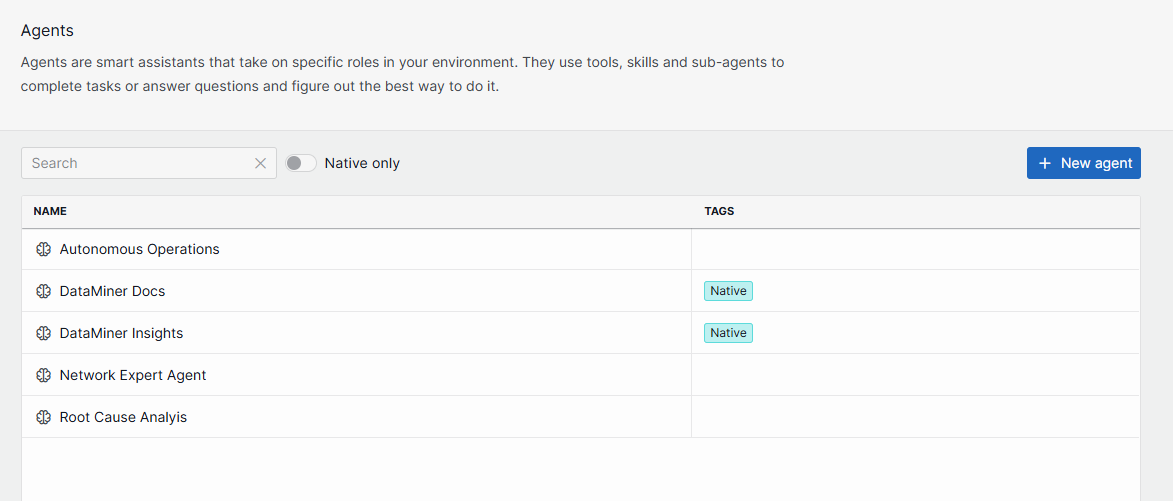
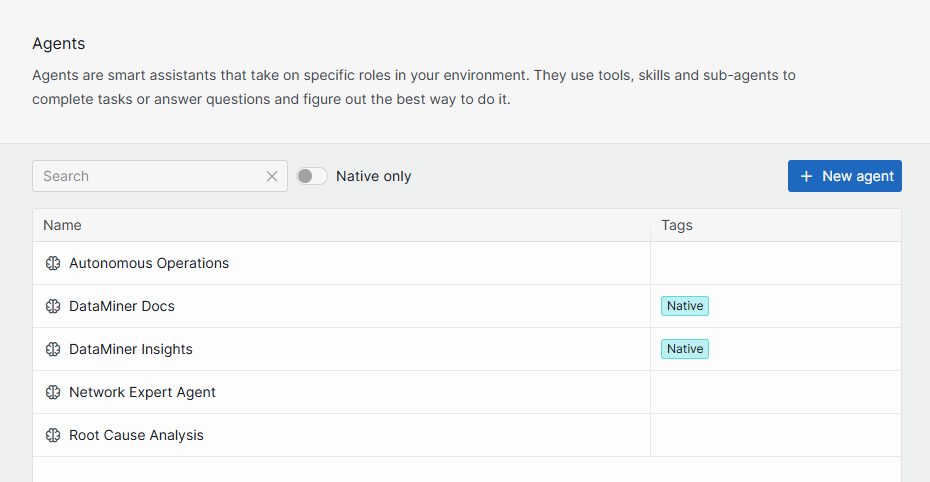
Review agents page + updated screenshot

diff --git a/dataminer/Functions/DataMiner_Intelligence/Intelligence_Assistant_Agents.md b/dataminer/Functions/DataMiner_Intelligence/Intelligence_Assistant_Agents.md
@@ -18,7 +18,7 @@ AI agents operate by combining:
 
 ### Native agents
 
-Native agents are built-in agents that ship with the DataMiner Assistant DxM. They are available when the DxM is installed and the system-wide *DataMiner Intelligence* setting is enabled. To use them, you need the *General > DataMiner Intelligence > Access* permission. To open them in the Assistant app, you also need the *Assistant app* permission. See [DataMiner user permissions](xref:DataMiner_user_permissions).
+Native agents are built-in agents that ship with the DataMiner Assistant DxM. They are available when the [requirements for DataMiner Intelligence](xref:Intelligence_Getting_Started#requirements) are met. They combine multiple DataMiner Intelligence capabilities to autonomously investigate questions, retrieve information, and perform guided actions.
 
 The following native agents are available:
 
@@ -27,7 +27,7 @@ The following native agents are available:
 
 On the agents overview page, native agents are labeled with a "Native" tag. You can use the *Native only* toggle button to filter the list and show only native agents. Native agents open in read-only mode, so editing and deleting is not possible for them.
 
-![Agents overview showing native and specialized agents. Native agents are marked with a "Native" tag.](~/dataminer/images/Assistant_Agents_List.png)<br>*Agents overview with native agents marked by a "Native" tag.*
+![Agents overview showing native and specialized agents. Native agents are marked with a "Native" tag.](~/dataminer/images/Assistant_Agents_List.png)<br>*Agents overview in the Assistant app in DataMiner 10.7.1.*
 
 ### Specialized agents
 
@@ -36,7 +36,7 @@ On the agents overview page, native agents are labeled with a "Native" tag. You 
 Specialized agents only have access to the specific tools and skills assigned to them.
 
 > [!IMPORTANT]
-> Specialized agents are an experimental feature. They are available when the system-wide *DataMiner Intelligence* setting and the *Specialized agents* setting have both been enabled. For more information, see [Specialized agents](xref:Intelligence_Assistant_Specialized_Agents).
+> Specialized agents are an experimental feature. They are available when the system-wide *DataMiner Intelligence* and *Specialized agents* web app settings have both been enabled. For more information, see [Specialized agents](xref:Intelligence_Assistant_Specialized_Agents).
 
 ## Agent context
 
